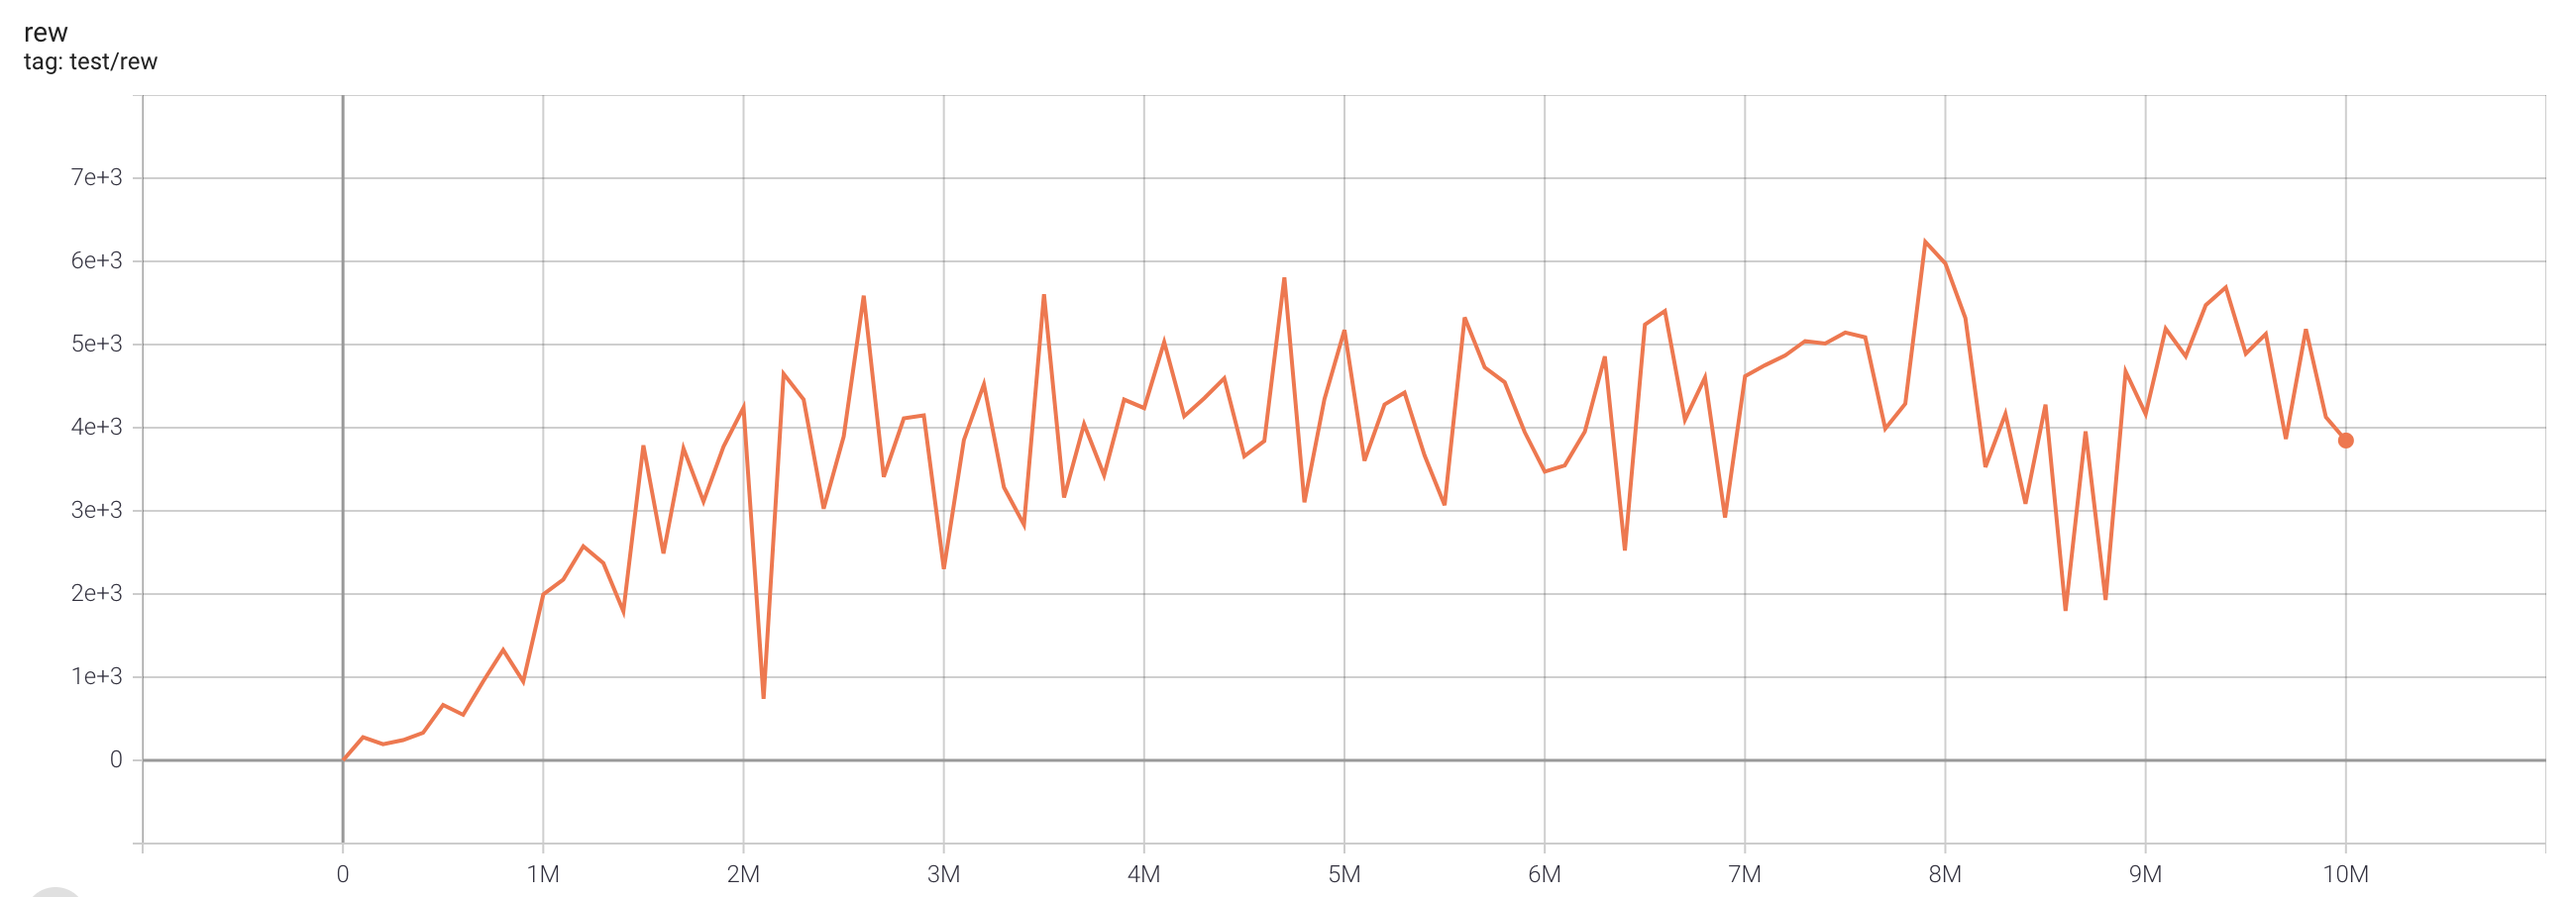
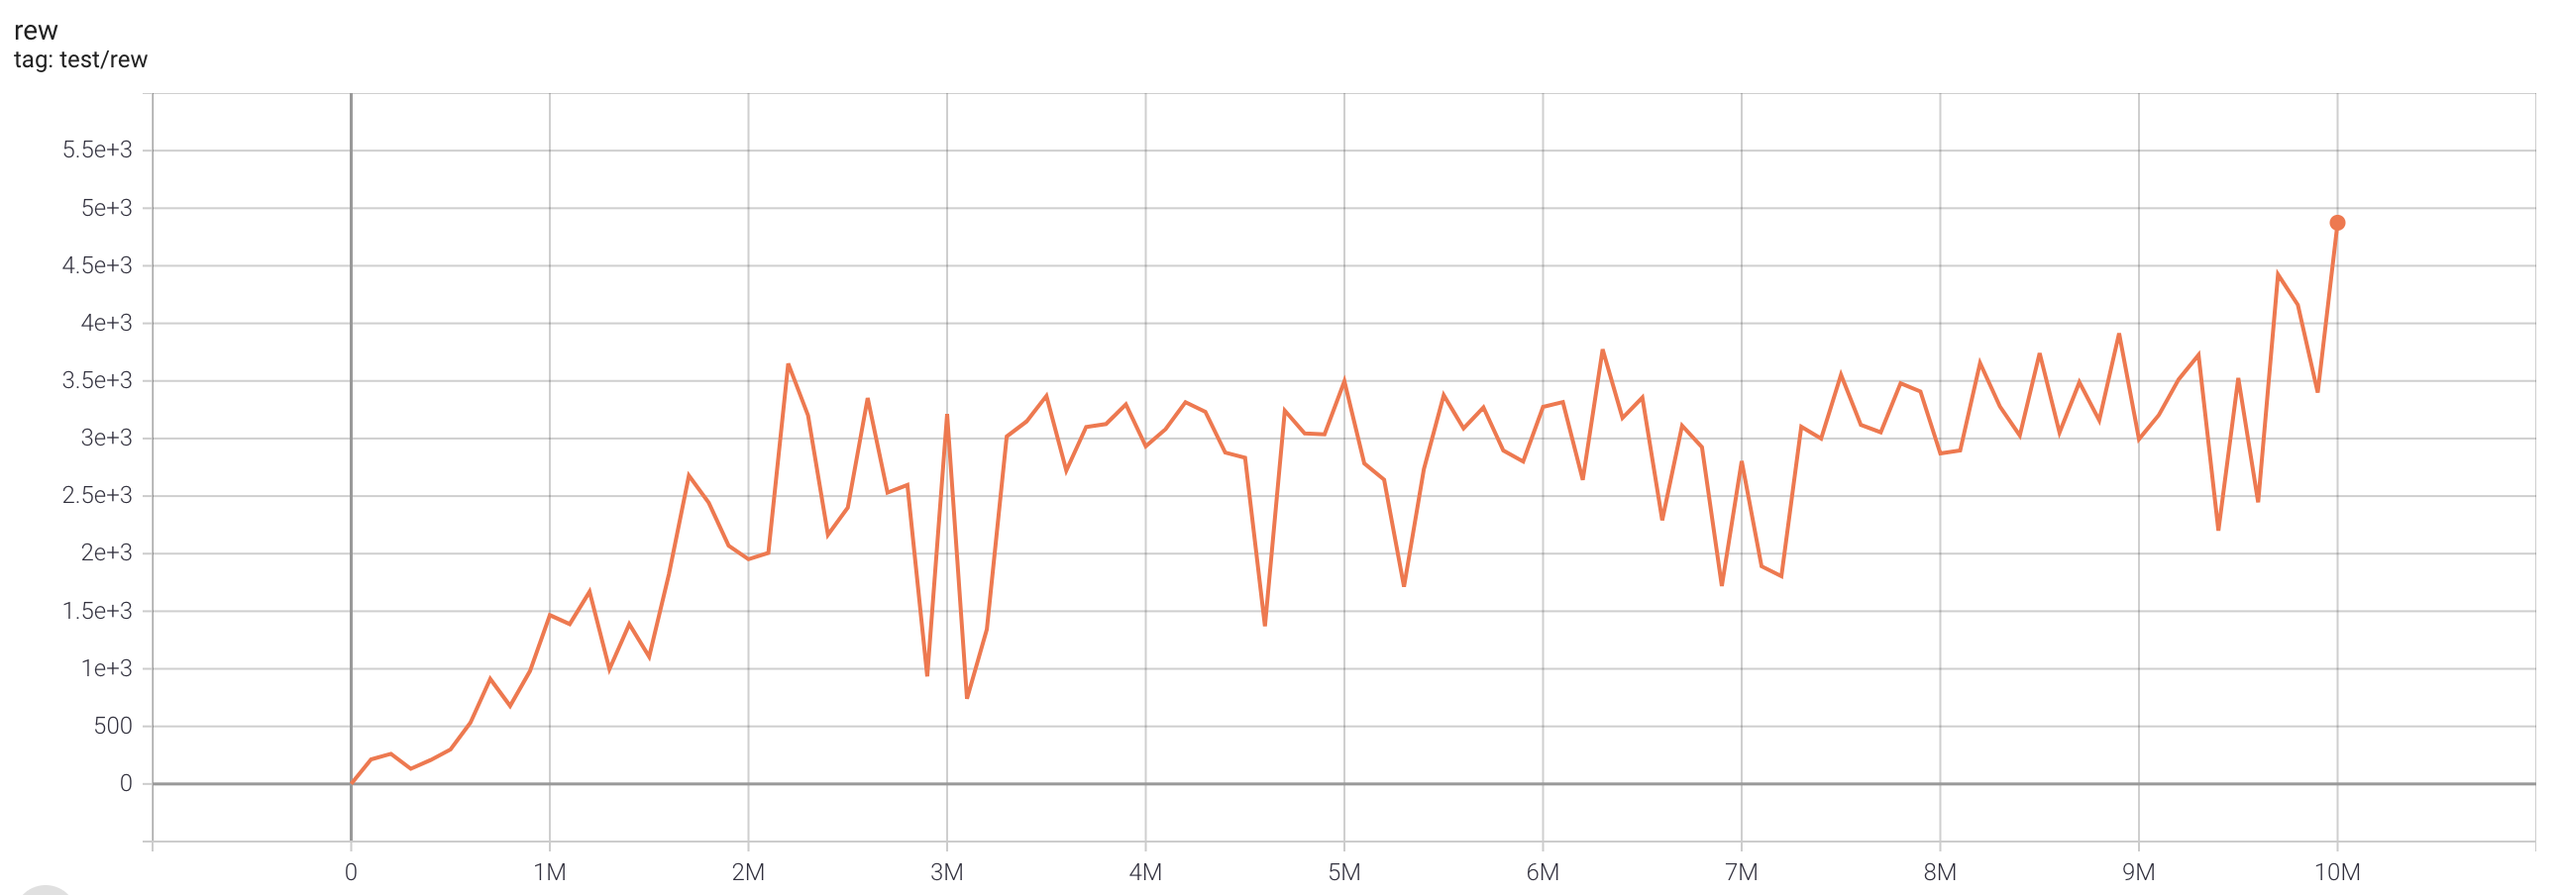
update iqn results and reward plots (#377)

diff --git a/examples/atari/README.md b/examples/atari/README.md
@@ -60,13 +60,13 @@ One epoch here is equal to 100,000 env step, 100 epochs stand for 10M.
 
 | task                        | best reward | reward curve                          | parameters                                                   |
 | --------------------------- | ----------- | ------------------------------------- | ------------------------------------------------------------ |
-| PongNoFrameskip-v4          | 20.9        | ![](results/iqn/Pong_rew.png)         | `python3 atari_iqn.py --task "PongNoFrameskip-v4" --batch-size 64` |
-| BreakoutNoFrameskip-v4      | 578.3       | ![](results/iqn/Breakout_rew.png)     | `python3 atari_iqn.py --task "BreakoutNoFrameskip-v4" --n-step 1` |
-| EnduroNoFrameskip-v4        | 1507        | ![](results/iqn/Enduro_rew.png)       | `python3 atari_iqn.py --task "EnduroNoFrameskip-v4"`  |
-| QbertNoFrameskip-v4         | 15520       | ![](results/iqn/Qbert_rew.png)        | `python3 atari_iqn.py --task "QbertNoFrameskip-v4"`  |
-| MsPacmanNoFrameskip-v4      | 2911        | ![](results/iqn/MsPacman_rew.png)     | `python3 atari_iqn.py --task "MsPacmanNoFrameskip-v4"`  |
-| SeaquestNoFrameskip-v4      | 6236        | ![](results/iqn/Seaquest_rew.png)     | `python3 atari_iqn.py --task "SeaquestNoFrameskip-v4"`  |
-| SpaceInvadersNoFrameskip-v4 | 1370        | ![](results/iqn/SpaceInvader_rew.png) | `python3 atari_iqn.py --task "SpaceInvadersNoFrameskip-v4"`  |
+| PongNoFrameskip-v4          | 20.3        | ![](results/iqn/Pong_rew.png)         | `python3 atari_iqn.py --task "PongNoFrameskip-v4" --batch-size 64` |
+| BreakoutNoFrameskip-v4      | 496.7       | ![](results/iqn/Breakout_rew.png)     | `python3 atari_iqn.py --task "BreakoutNoFrameskip-v4" --n-step 1` |
+| EnduroNoFrameskip-v4        | 1545        | ![](results/iqn/Enduro_rew.png)       | `python3 atari_iqn.py --task "EnduroNoFrameskip-v4"`  |
+| QbertNoFrameskip-v4         | 15342.5     | ![](results/iqn/Qbert_rew.png)        | `python3 atari_iqn.py --task "QbertNoFrameskip-v4"`  |
+| MsPacmanNoFrameskip-v4      | 2915        | ![](results/iqn/MsPacman_rew.png)     | `python3 atari_iqn.py --task "MsPacmanNoFrameskip-v4"`  |
+| SeaquestNoFrameskip-v4      | 4874        | ![](results/iqn/Seaquest_rew.png)     | `python3 atari_iqn.py --task "SeaquestNoFrameskip-v4"`  |
+| SpaceInvadersNoFrameskip-v4 | 1498.5      | ![](results/iqn/SpaceInvaders_rew.png) | `python3 atari_iqn.py --task "SpaceInvadersNoFrameskip-v4"`  |
 
 # BCQ
 
